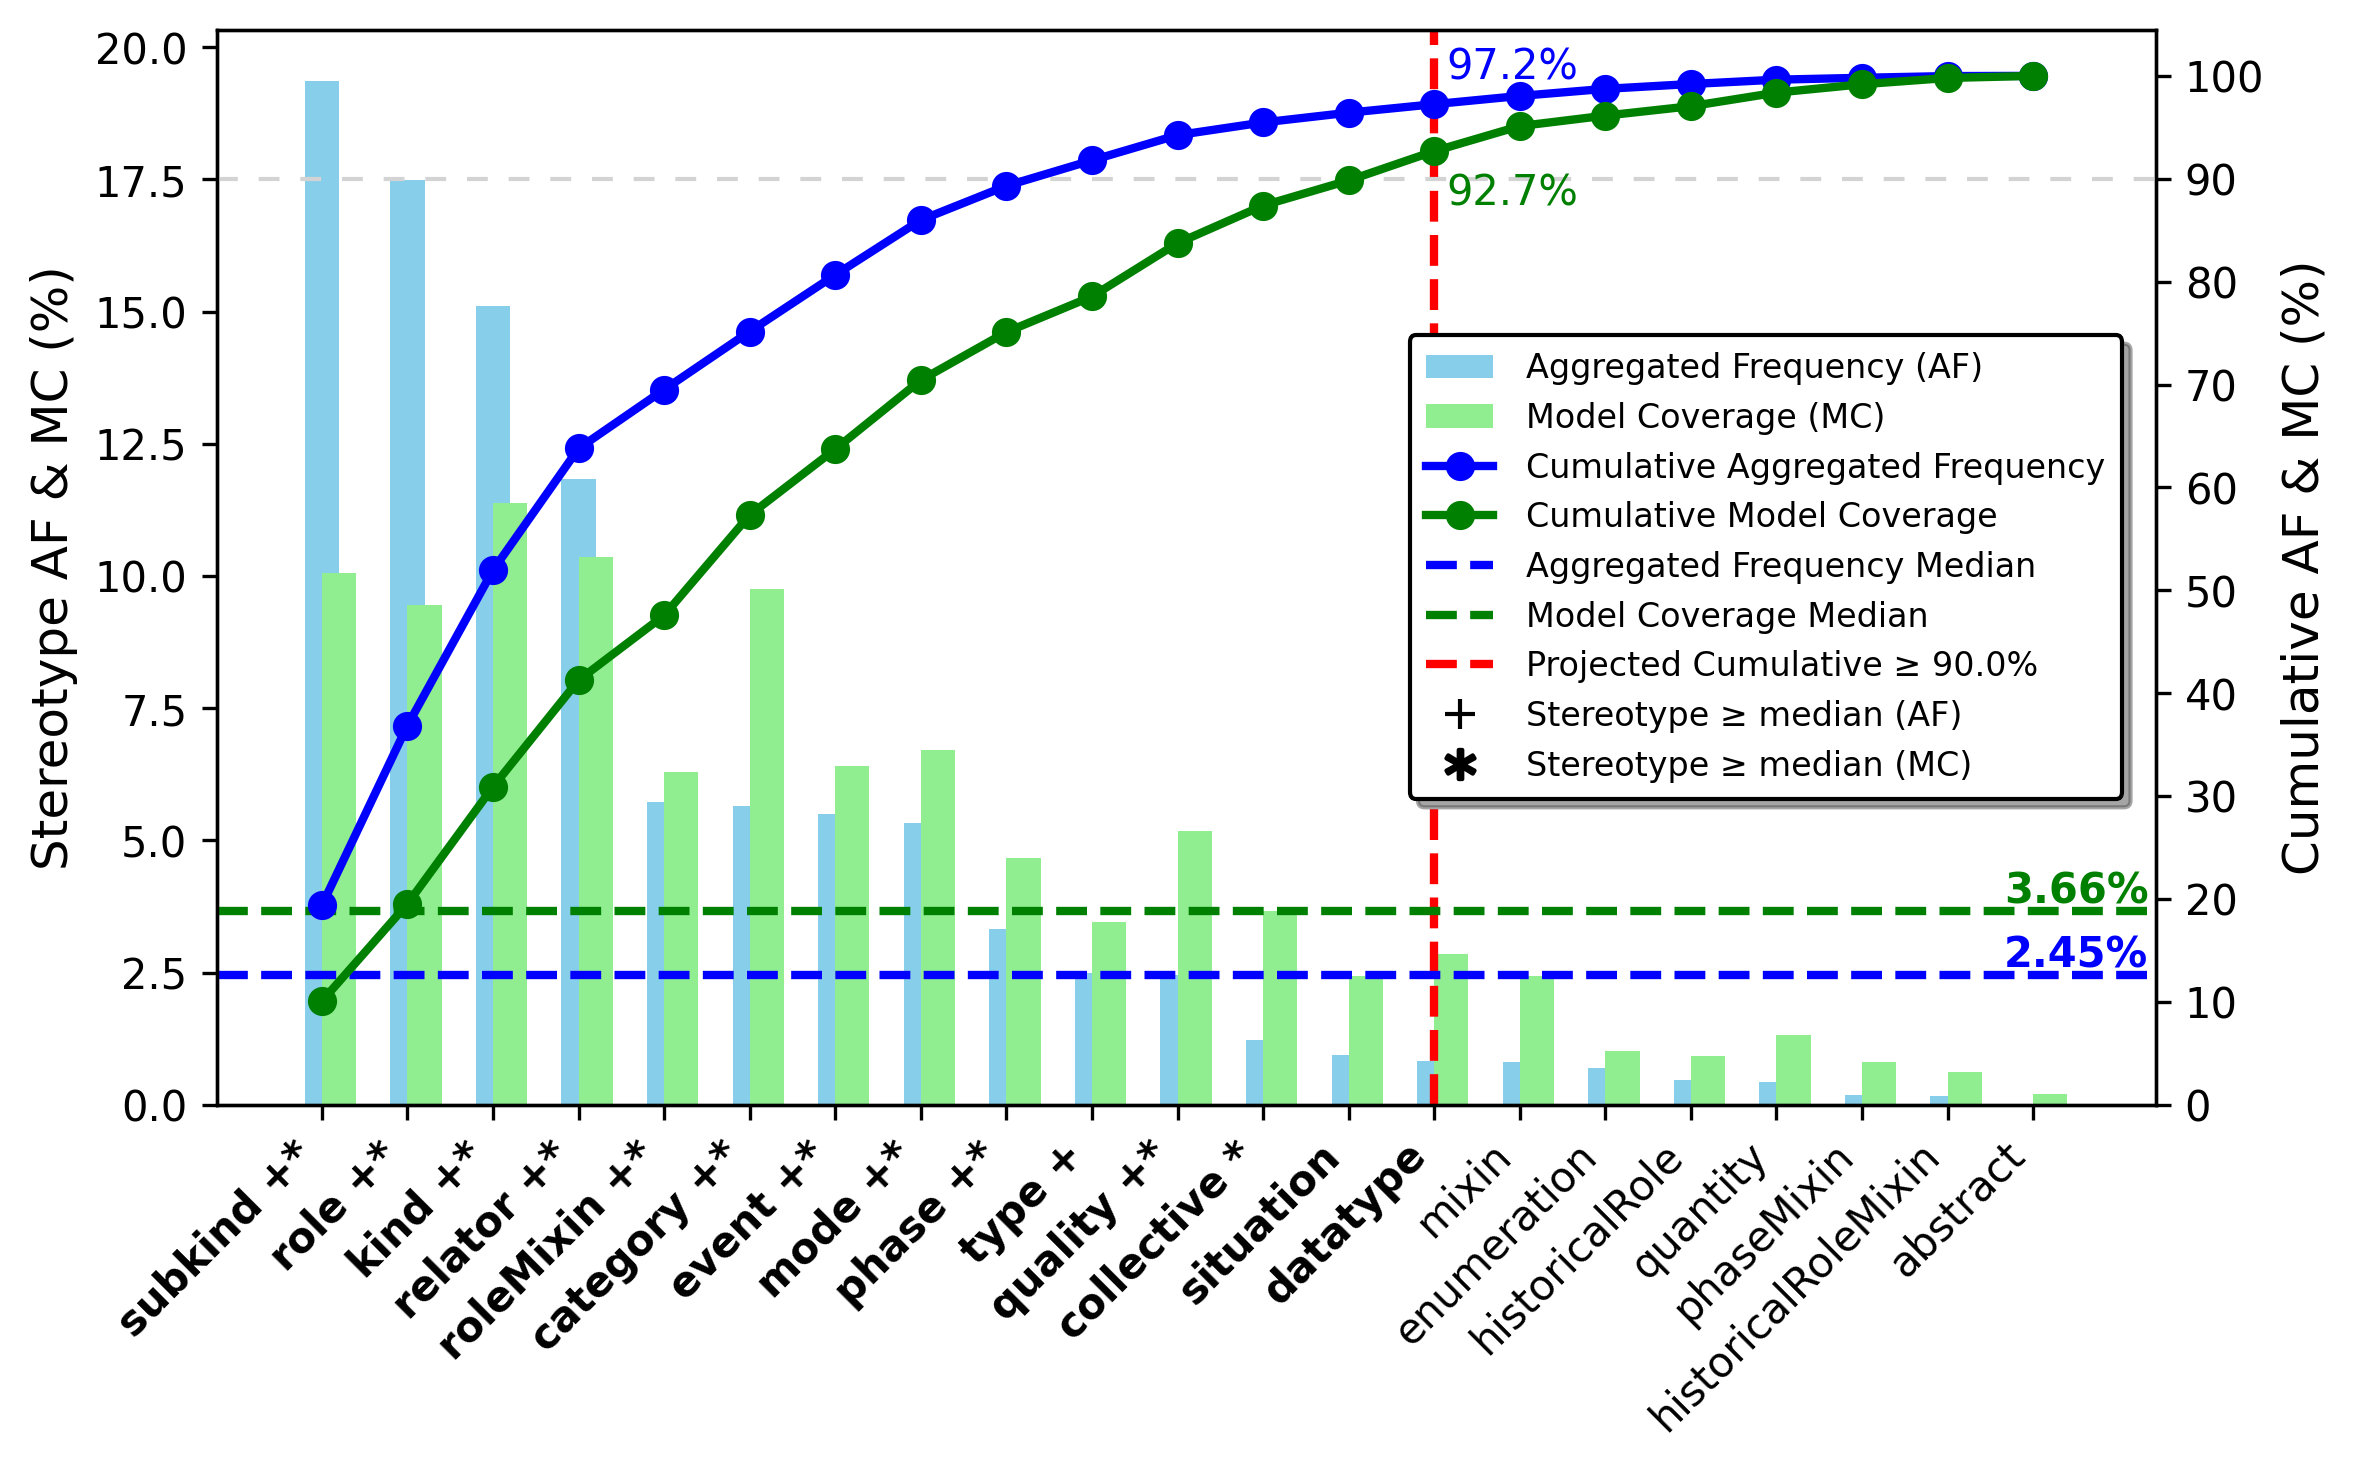
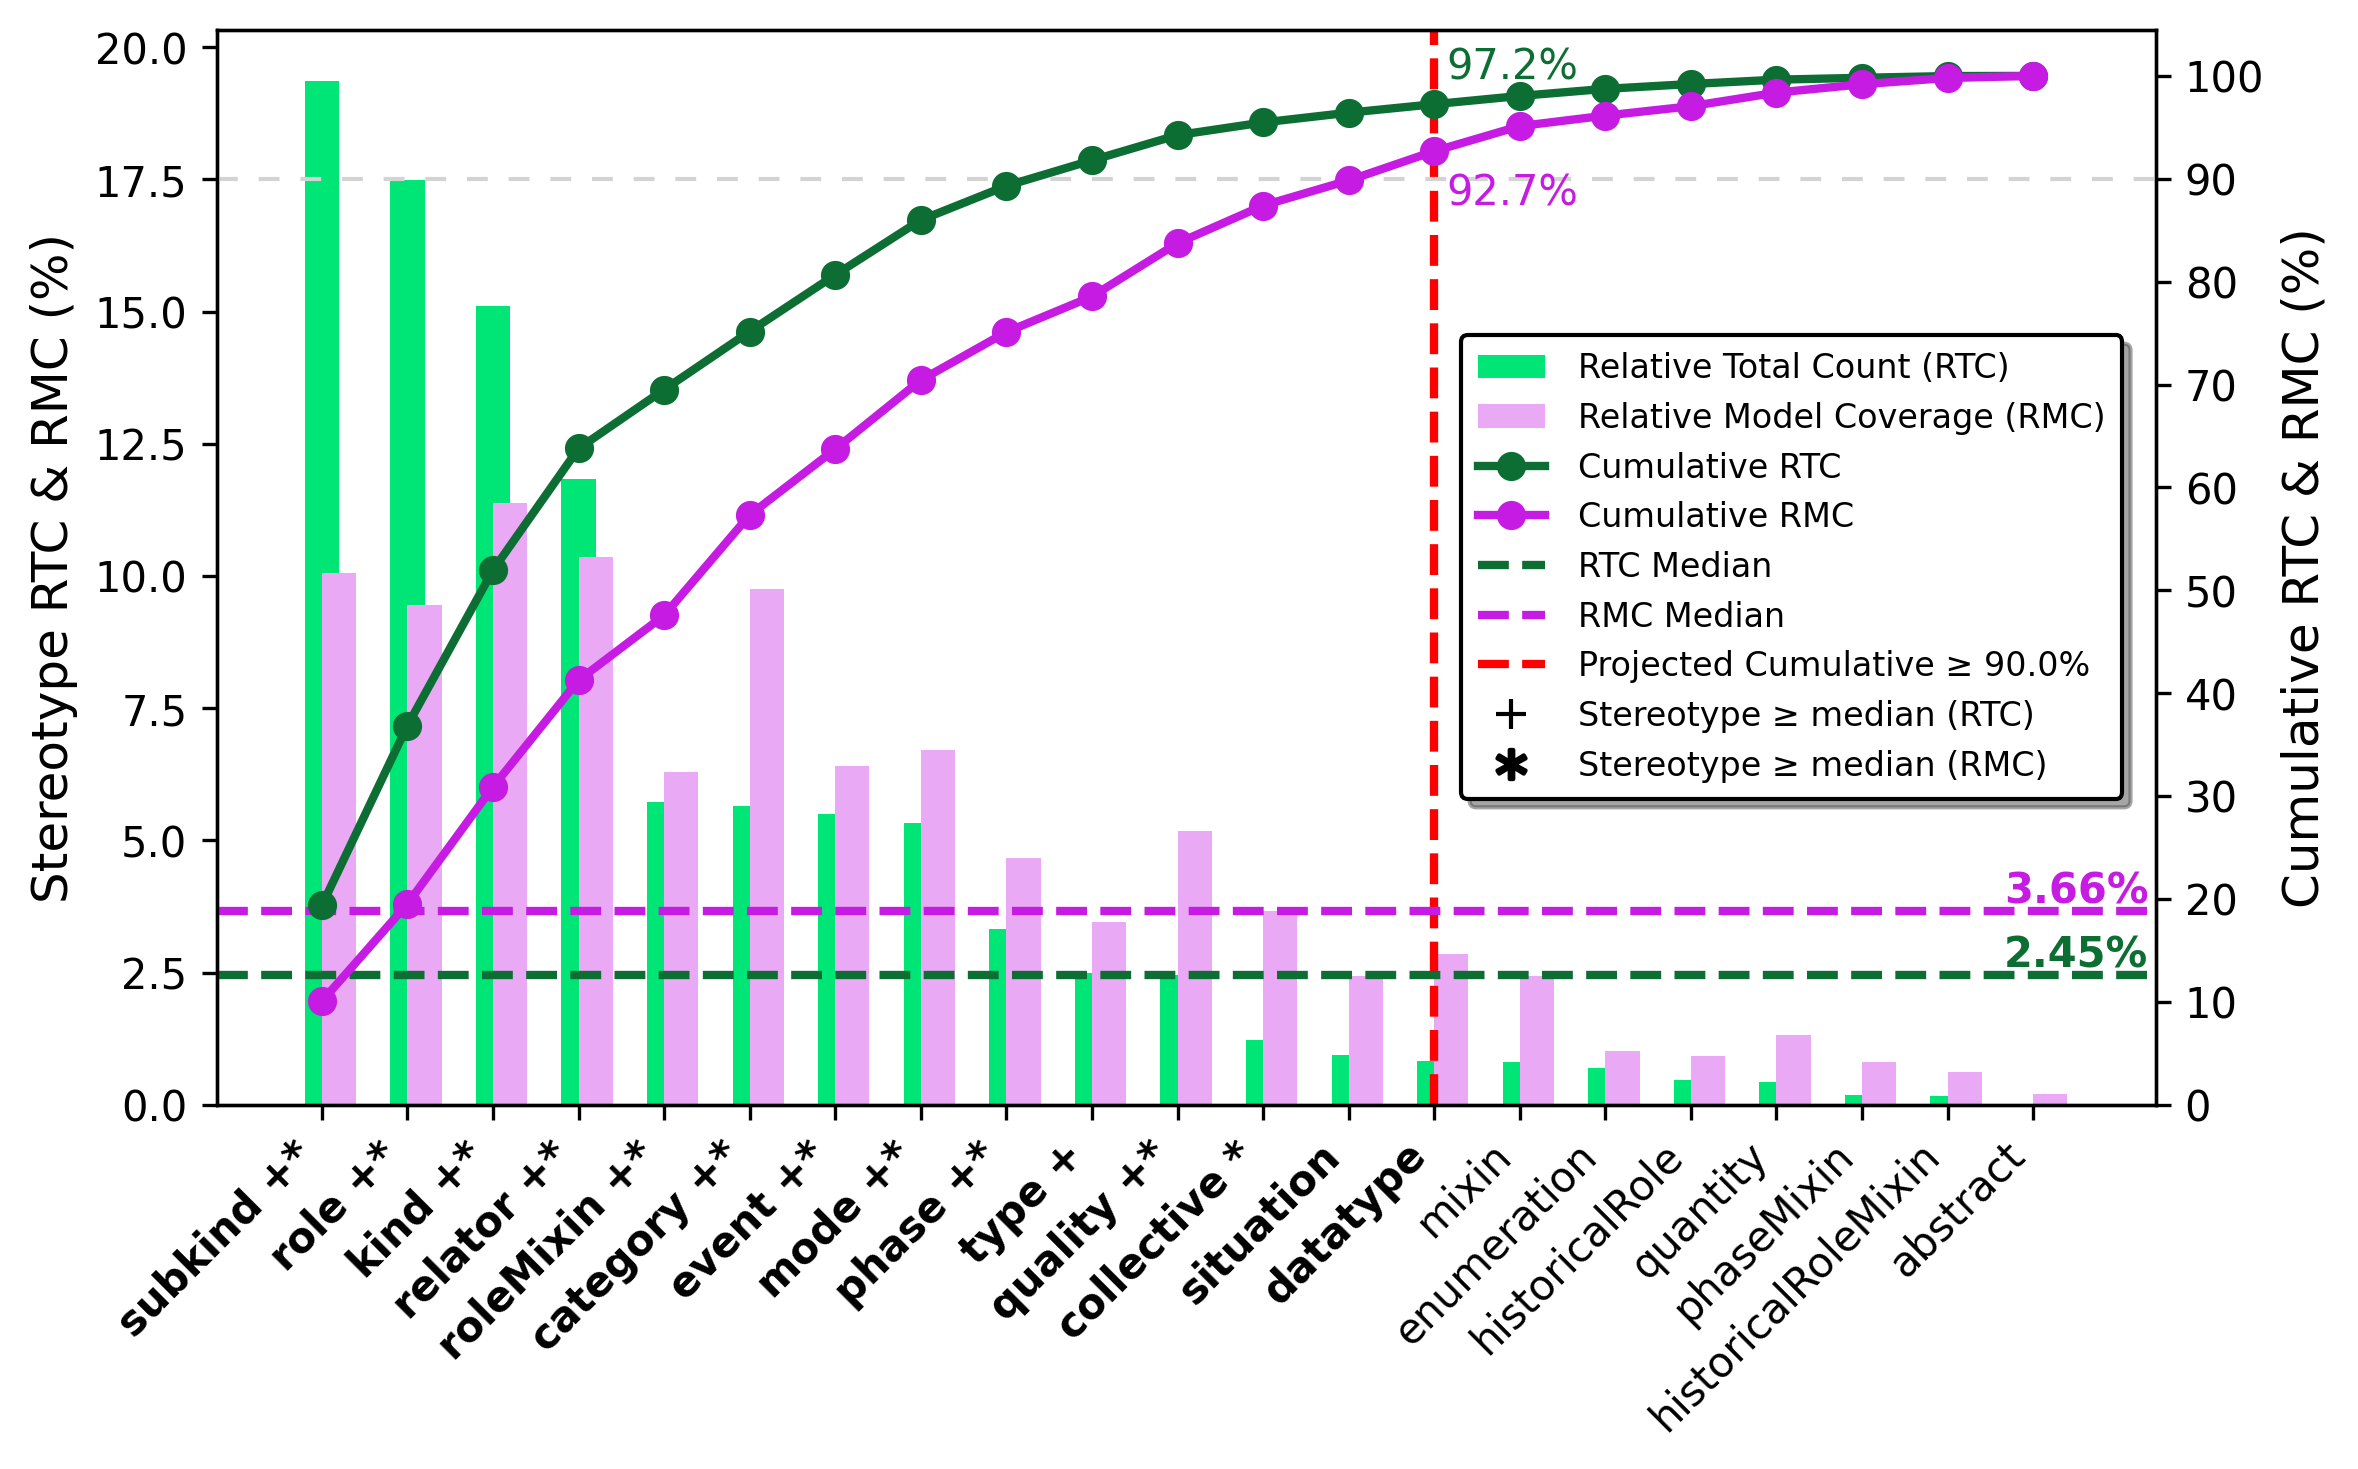
Coloring improved.

diff --git a/src/step3_output.py b/src/step3_output.py
@@ -37,18 +37,37 @@ def plot_pareto_combined(dataset, output_dir: str, coverage_limit: float = None)
 
     # Define a helper function to create Pareto charts for a given dataset
     def create_pareto_chart(data_occurrence, data_groupwise, output_path, coverage_limit=None, suffix=""):
-        # Calculate the percentage frequency for occurrence-wise and group-wise data
-        data_occurrence['Percentage Frequency'] = (data_occurrence['Frequency'] / data_occurrence[
-            'Frequency'].sum()) * 100
-        data_groupwise['Percentage Group-wise Frequency'] = (data_groupwise['Group-wise Frequency'] / data_groupwise[
+
+        # === Centralized Color Config ===
+        COLORS = {
+            # RTC = Green (bright)
+            "rtc_bar": "#00E676",  # Bright neon green
+            "rtc_line": "#0D6E34",  # Dark green
+            "rtc_median": "#0D6E34",
+            "rtc_annotation": "#0D6E34",
+
+            # RMC = Purple (bright)
+            "rmc_bar": "#EAA9F5",  # Light orchid/lavender
+            "rmc_line": "#C61BE3",  # Bright vivid purple
+            "rmc_median": "#C61BE3",
+            "rmc_annotation": "#C61BE3",
+
+            # Other
+            "coverage_line": "lightgrey",
+            "coverage_marker": "red"
+        }
+
+        # Calculate RTC and RMC as percentages
+        data_occurrence['RTC (%)'] = (data_occurrence['Frequency'] / data_occurrence['Frequency'].sum()) * 100
+        data_groupwise['RMC (%)'] = (data_groupwise['Group-wise Frequency'] / data_groupwise[
             'Group-wise Frequency'].sum()) * 100
 
         # Ensure that group-wise data is ordered based on occurrence-wise data
         data_groupwise = data_groupwise.set_index('Stereotype').reindex(data_occurrence['Stereotype']).reset_index()
 
         # Calculate cumulative percentages for occurrence-wise and group-wise data
-        data_occurrence['Cumulative Percentage'] = data_occurrence['Percentage Frequency'].cumsum()
-        data_groupwise['Group-wise Cumulative Percentage'] = data_groupwise['Percentage Group-wise Frequency'].cumsum()
+        data_occurrence['Cumulative RTC (%)'] = data_occurrence['RTC (%)'].cumsum()
+        data_groupwise['Cumulative RMC (%)'] = data_groupwise['RMC (%)'].cumsum()
 
         # Reset index to ensure integer indexing
         data_occurrence = data_occurrence.reset_index(drop=True)
@@ -64,34 +83,31 @@ def plot_pareto_combined(dataset, output_dir: str, coverage_limit: float = None)
 
         # Bar plot for occurrence-wise frequency
         bar_width = 0.4
-        ax1.bar(data_occurrence['Stereotype'], data_occurrence['Percentage Frequency'], width=bar_width,
-                label='Aggregated Frequency (AF)', align='center', color='skyblue', zorder=2)
+        ax1.bar(data_occurrence['Stereotype'], data_occurrence['RTC (%)'], width=bar_width,
+                label='Relative Total Count (RTC)', align='center', color=COLORS["rtc_bar"], zorder=2)
 
-        # Bar plot for group-wise frequency (shifted to the right)
-        ax1.bar(data_groupwise['Stereotype'], data_groupwise['Percentage Group-wise Frequency'], width=bar_width,
-                label='Model Coverage (MC)', align='edge', color='lightgreen', zorder=2)
+        ax1.bar(data_groupwise['Stereotype'], data_groupwise['RMC (%)'], width=bar_width,
+                label='Relative Model Coverage (RMC)', align='edge', color=COLORS["rmc_bar"], zorder=2)
 
         # Calculate medians
-        median_occurrence = np.median(data_occurrence['Percentage Frequency'])
-        median_groupwise = np.median(data_groupwise['Percentage Group-wise Frequency'])
+        median_occurrence = np.median(data_occurrence['RTC (%)'])
+        median_groupwise = np.median(data_groupwise['RMC (%)'])
 
         # Plot horizontal dashed lines for the medians (keep simple labels for the legend)
-        ax1.axhline(median_occurrence, color='blue', linestyle='--', linewidth=2.0, label='Aggregated Frequency Median',
-                    zorder=3)
-        ax1.axhline(median_groupwise, color='green', linestyle='--', linewidth=2.0, label='Model Coverage Median',
-                    zorder=3)
+        ax1.axhline(median_occurrence, color=COLORS["rtc_median"], linestyle='--', linewidth=2.0, label='RTC Median', zorder=3)
+        ax1.axhline(median_groupwise, color=COLORS["rmc_median"], linestyle='--', linewidth=2.0, label='RMC Median', zorder=3)
 
         # Annotate the medians at the rightmost end of the lines
         # Used (-7, 10) and (-50, 2) for relation
 
         ax1.annotate(f'{median_occurrence:.2f}%', xy=(len(data_occurrence) - 1, median_occurrence), xytext=(-7, 2),
-                     textcoords='offset points', color='blue', fontsize=10, fontweight='bold', zorder=5)
+                     textcoords='offset points', color=COLORS["rtc_annotation"], fontsize=10, fontweight='bold', zorder=5)
 
         ax1.annotate(f'{median_groupwise:.2f}%', xy=(len(data_groupwise) - 1, median_groupwise), xytext=(-7, 2),
-                     textcoords='offset points', color='green', fontsize=10, fontweight='bold', zorder=5)
+                     textcoords='offset points', color=	COLORS["rmc_annotation"], fontsize=10, fontweight='bold', zorder=5)
 
         # Set labels and title
-        ax1.set_ylabel('Stereotype AF & MC (%)', fontsize=12)
+        ax1.set_ylabel('Stereotype RTC & RMC (%)', fontsize=12)
         # Title omitted for the paper
         # ax1.set_title(title, fontweight='bold', fontsize=14)
 
@@ -101,18 +117,17 @@ def plot_pareto_combined(dataset, output_dir: str, coverage_limit: float = None)
         # Line plot for occurrence-wise cumulative percentage
         ax2 = ax1.twinx()  # Create a second y-axis
 
-        ax2.plot(range(len(data_occurrence)), data_occurrence['Cumulative Percentage'], color='blue', marker='o',
-                 label='Cumulative Aggregated Frequency', linestyle='-', linewidth=2, zorder=2)
+        ax2.plot(range(len(data_occurrence)), data_occurrence['Cumulative RTC (%)'], color=COLORS["rtc_line"], marker='o',
+                 label='Cumulative RTC', linestyle='-', linewidth=2, zorder=2)
 
-        # Line plot for group-wise cumulative percentage
-        ax2.plot(range(len(data_groupwise)), data_groupwise['Group-wise Cumulative Percentage'], color='green',
-                 marker='o', label='Cumulative Model Coverage', linestyle='-', linewidth=2, zorder=2)
+        ax2.plot(range(len(data_groupwise)), data_groupwise['Cumulative RMC (%)'], color=COLORS["rmc_line"],
+                 marker='o', label='Cumulative RMC', linestyle='-', linewidth=2, zorder=2)
 
         if coverage_limit is not None:
             coverage_limit_percent = coverage_limit * 100
             ax2.axhline(
                 y=coverage_limit_percent,
-                color='lightgrey',
+                color=COLORS["coverage_line"],
                 linestyle=(0, (5, 5)),  # More spaced-out dashes
                 linewidth=1.0,
                 zorder=-5,  # Ensure it remains in the background
@@ -121,28 +136,28 @@ def plot_pareto_combined(dataset, output_dir: str, coverage_limit: float = None)
 
             # Find the index where both cumulative percentages exceed the coverage limit
             for i in range(len(data_occurrence)):
-                occurrence_cumulative = data_occurrence.loc[i, 'Cumulative Percentage']
-                groupwise_cumulative = data_groupwise.loc[i, 'Group-wise Cumulative Percentage']
+                occurrence_cumulative = data_occurrence.loc[i, 'Cumulative RTC (%)']
+                groupwise_cumulative = data_groupwise.loc[i, 'Cumulative RMC (%)']
                 if min(occurrence_cumulative, groupwise_cumulative) >= coverage_limit_percent:
                     # Plot the vertical dashed line at this index
-                    ax1.axvline(x=i, color='red', linestyle='--', linewidth=2.0,
+                    ax1.axvline(x=i, color=COLORS["coverage_marker"], linestyle='--', linewidth=2.0,
                                 label=f'Projected Cumulative ≥ {coverage_limit_percent:.1f}%')
 
                     # Annotate the occurrence-wise cumulative percentage, automatically adjusted
                     ax2.annotate(f'{occurrence_cumulative:.1f}%', xy=(i, occurrence_cumulative),
                                  textcoords='offset points', xytext=(3, 14), ha='left', va='top', fontsize=10,
-                                 color='blue')
+                                 color=COLORS["rtc_annotation"])
 
                     # Annotate the group-wise cumulative percentage, automatically adjusted
                     ax2.annotate(f'{groupwise_cumulative:.1f}%', xy=(i, groupwise_cumulative),
                                  textcoords='offset points', xytext=(3, -5), ha='left', va='top', fontsize=10,
-                                 color='green')
+                                 color=COLORS["rmc_annotation"])
 
                     red_line_index = i
                     break
 
         # Set the y-axis label and ticks for the cumulative percentage
-        ax2.set_ylabel('Cumulative AF & MC (%)', fontsize=12)
+        ax2.set_ylabel('Cumulative RTC & RMC (%)', fontsize=12)
         ax2.set_yticks(range(0, 101, 10))
 
         ax1.tick_params(axis='x', rotation=45)  # Rotate by 45 degrees
@@ -203,9 +218,9 @@ def plot_pareto_combined(dataset, output_dir: str, coverage_limit: float = None)
 
         # Create proxy artists for the symbols
         legend_elements = [Line2D([0], [0], marker='+', color='black', linestyle='None', markersize=7,
-                                  label='Stereotype ≥ median (AF)'),
+                                  label='Stereotype ≥ median (RTC)'),
                            Line2D([0], [0], marker='$*$', color='black', linestyle='None', markersize=7,
-                                  label='Stereotype ≥ median (MC)')]
+                                  label='Stereotype ≥ median (RMC)')]
 
         # Add these proxies to the existing legend
         ax2.legend(handles=combined_handles + legend_elements,  # Combine previous handles with new ones

diff --git a/main.py b/main.py
@@ -1,3 +1,5 @@
+import os
+
 from src.directories_global import OUTPUT_DIR_02, OUTPUT_DIR_03
 from src.step0_setup import initialize_output_directories, get_catalog_path
 from src.step1_input import load_data_from_catalog, calculate_models_data, create_and_save_specific_datasets_instances, \
@@ -5,27 +7,27 @@ from src.step1_input import load_data_from_catalog, calculate_models_data, creat
 from src.step2_processing import calculate_and_save_datasets_statistics, \
     calculate_and_save_datasets_stereotypes_statistics
 from src.step3_output import generate_visualizations
-from src.utils import save_object
+from src.utils import save_object, load_object
 
 if __name__ == "__main__":
-    # Step 0: Initial setup
-    initialize_output_directories()
-    catalog_path = get_catalog_path()
+    # # Step 0: Initial setup
+    # initialize_output_directories()
+    # catalog_path = get_catalog_path()
+    #
+    # # Step 1: Data input - load all models' data, execute queries and create dataset
+    # all_models_data = load_data_from_catalog(catalog_path)
+    # query_data(all_models_data)
+    # all_models_data = calculate_models_data()
+    # datasets = create_and_save_specific_datasets_instances(all_models_data)
+    #
+    # # datasets = load_object(os.path.join(OUTPUT_DIR_01, "datasets.object.gz"), "Datasets")
+    #
+    # # Step 2: Data processing - generate statistics
+    # calculate_and_save_datasets_statistics(datasets, OUTPUT_DIR_02)
+    # calculate_and_save_datasets_stereotypes_statistics(datasets, OUTPUT_DIR_02)
+    # save_object(datasets, OUTPUT_DIR_02, "datasets", "Updated datasets")
 
-    # Step 1: Data input - load all models' data, execute queries and create dataset
-    all_models_data = load_data_from_catalog(catalog_path)
-    query_data(all_models_data)
-    all_models_data = calculate_models_data()
-    datasets = create_and_save_specific_datasets_instances(all_models_data)
-
-    # datasets = load_object(os.path.join(OUTPUT_DIR_01, "datasets.object.gz"), "Datasets")
-
-    # Step 2: Data processing - generate statistics
-    calculate_and_save_datasets_statistics(datasets, OUTPUT_DIR_02)
-    calculate_and_save_datasets_stereotypes_statistics(datasets, OUTPUT_DIR_02)
-    save_object(datasets, OUTPUT_DIR_02, "datasets", "Updated datasets")
-
-    # datasets = load_object(os.path.join(OUTPUT_DIR_02, "datasets.object.gz"), "Datasets")
+    datasets = load_object(os.path.join(OUTPUT_DIR_02, "datasets.object.gz"), "Datasets")
 
     # Step 3: Data output - visualizations
     generate_visualizations(datasets, OUTPUT_DIR_03)

diff --git a/src/utils.py b/src/utils.py
@@ -41,8 +41,8 @@ def append_chars_to_labels(texts, data_occurrence, data_groupwise, median_occurr
 
     for i, text in enumerate(texts):
         label = text.get_text()  # Get the current label text
-        occurrence_value = data_occurrence.loc[i, 'Percentage Frequency']
-        groupwise_value = data_groupwise.loc[i, 'Percentage Group-wise Frequency']
+        occurrence_value = data_occurrence.loc[i, 'RTC (%)']
+        groupwise_value = data_groupwise.loc[i, 'RMC (%)']
 
         # Reset the label by removing any previous chars if necessary
         clean_label = label.split()[0]  # Get the original label without any appended chars
